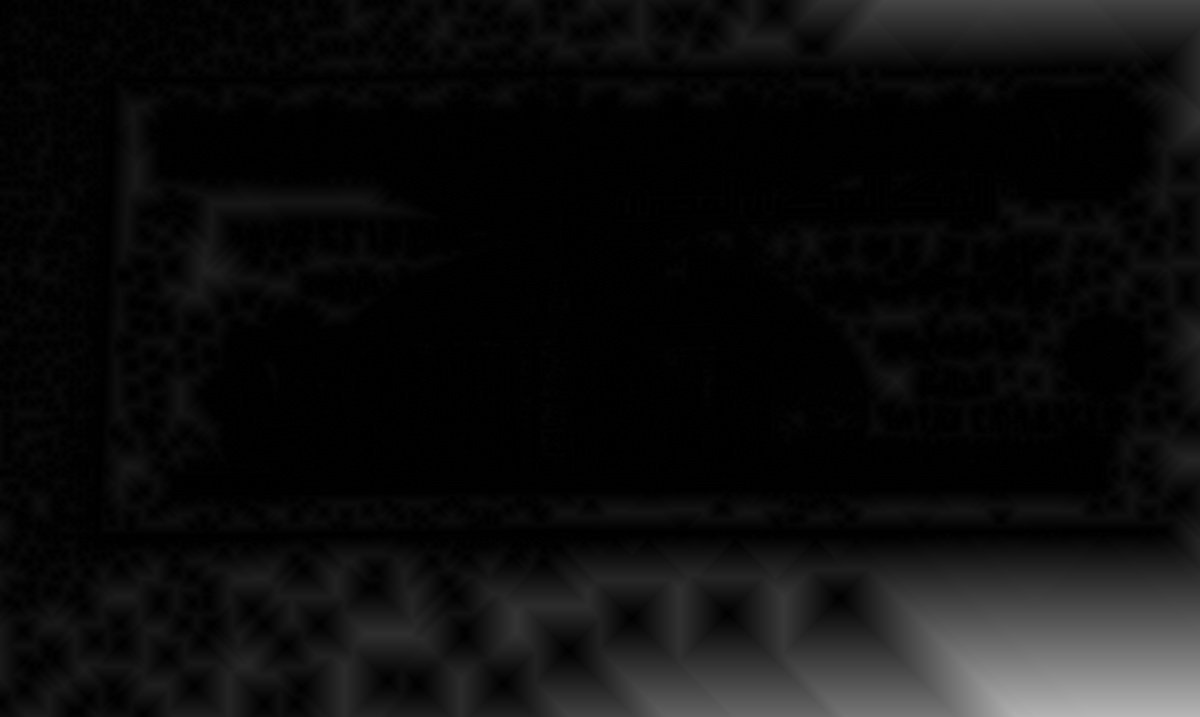
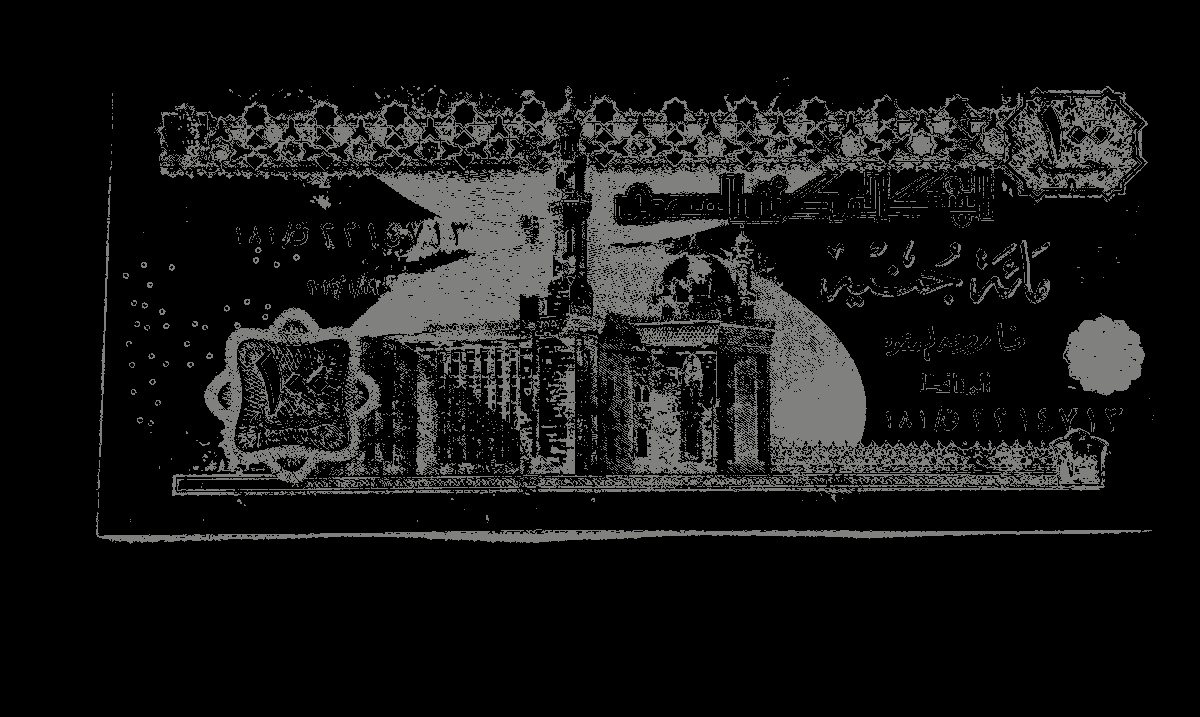
kmeans clustering is effective (but not suitable for banknote segmentation)

diff --git a/src/BanknoteContour.java b/src/BanknoteContour.java
@@ -1,6 +1,8 @@
 import java.io.File;
 import java.util.ArrayList;
+import java.util.HashMap;
 import java.util.List;
+import java.util.Map;
 import java.util.Random;
 
 import org.opencv.core.Core;
@@ -11,180 +13,138 @@ import org.opencv.core.MatOfPoint2f;
 import org.opencv.core.RotatedRect;
 import org.opencv.core.Scalar;
 import org.opencv.core.Size;
+import org.opencv.core.TermCriteria;
 import org.opencv.imgcodecs.Imgcodecs;
 import org.opencv.imgproc.Imgproc;
 import org.opencv.core.Point;
 
 public class BanknoteContour {
 
-    public static void main(String[] args){
+	public static void main(String[] args){
 
-        System.loadLibrary(Core.NATIVE_LIBRARY_NAME);
+		System.loadLibrary(Core.NATIVE_LIBRARY_NAME);
 
-        // Loop over all the test images
-        File folder = new File("images");
-        File[] listOfFiles = folder.listFiles();
-        String fileName = "";
+		File folder = new File("images");
+		File[] listOfFiles = folder.listFiles();
 
-        for (int i = 0; i < listOfFiles.length; i++) {
+		String fileName = "";
 
-            fileName = listOfFiles[i].getName();
+		// Loop over all the test images
+		for (int i = 0; i < listOfFiles.length; i++) {
 
-            System.out.println("Reading image : " + fileName);
+			fileName = listOfFiles[i].getName();
 
-            Mat src = Imgcodecs.imread(folder + "/"+ fileName, Imgcodecs.IMREAD_COLOR);
-            
-            // Create a kernel that we will use to sharpen our image
-            Mat kernel = new Mat(3, 3, CvType.CV_32F);
-            // an approximation of second derivative, a quite strong kernel
-            float[] kernelData = new float[(int) (kernel.total() * kernel.channels())];
-            kernelData[0] = 1; kernelData[1] = 1; kernelData[2] = 1;
-            kernelData[3] = 1; kernelData[4] = -8; kernelData[5] = 1;
-            kernelData[6] = 1; kernelData[7] = 1; kernelData[8] = 1;
-            kernel.put(0, 0, kernelData);
+			System.out.println("Reading image : " + fileName);
 
-            // Do the laplacian filtering and convert to CV_32
-            // in order not to truncate negative numbers
-            Mat imgLaplacian = new Mat();
-            Imgproc.filter2D(src, imgLaplacian, CvType.CV_32F, kernel);
-            Mat sharp = new Mat();
-            src.convertTo(sharp, CvType.CV_32F);
-            Mat imgSharpened = new Mat();
-            Core.subtract(sharp, imgLaplacian, imgSharpened);
+			// Read the image
+			Mat src = Imgcodecs.imread(folder + "/"+ fileName, Imgcodecs.IMREAD_COLOR);
 
-            // convert back to 8bits gray scale
-            imgSharpened.convertTo(imgSharpened, CvType.CV_8UC3);
-            imgLaplacian.convertTo(imgLaplacian, CvType.CV_8UC3);
+			// Reduce noise by filtering
+			Mat srcFiltered = new Mat();
+			Size ksize = new Size(5, 5);
+			double sigmaX = 0;
+			double sigmaY = 0;
+			Imgproc.GaussianBlur(src, srcFiltered, ksize, sigmaX, sigmaY , Core.BORDER_DEFAULT);
 
-            // Create binary image from source image
-            Mat bw = new Mat();
-            Imgproc.cvtColor(imgSharpened, bw, Imgproc.COLOR_BGR2GRAY);
-            Imgproc.threshold(bw, bw, 0, 255, Imgproc.THRESH_BINARY | Imgproc.THRESH_OTSU);
-            
+			// Run the k-means clustering algorithm
+			List<Mat> clusters = cluster(src, 5);
 
-            // Perform the distance transform algorithm
-            Mat dist = new Mat();
-            Imgproc.distanceTransform(bw, dist, Imgproc.DIST_C, 3);
+			// Draw the largest cluster
+			Imgcodecs.imwrite("result/"+fileName, clusters.get(0));
 
-            // Normalize the distance image for range = {0.0, 1.0}
-            // so we can visualize and threshold it
-            Mat dist2 = new Mat();
-            Core.normalize(dist, dist2, 0.0, 1.0, Core.NORM_MINMAX);
-            Mat distDisplayScaled = new Mat();
-            Core.multiply(dist2, new Scalar(255), distDisplayScaled);
-            Mat distDisplay = new Mat();
-            distDisplayScaled.convertTo(distDisplay, CvType.CV_8U);
-            
+		}
 
-            // Threshold to obtain the peaks
-            // This will be the markers for the foreground objects
-            Mat dstThreshold = new Mat();
-            Imgproc.threshold(dist, dstThreshold, 0.4, 1.0, Imgproc.THRESH_BINARY);
+		System.out.println("Finished finding contours ..." );
+		System.exit(0);        
 
-            // Dilate a bit the dist image
-            Mat kernel1 = Mat.ones(3, 3, CvType.CV_8U);
-            Imgproc.dilate(dstThreshold, dstThreshold, kernel1);
-            Mat distDisplay2 = new Mat();
-            dist.convertTo(distDisplay2, CvType.CV_8U);
-            Core.multiply(distDisplay2, new Scalar(255), distDisplay2);
+	}
 
-            // Create the CV_8U version of the distance image
-            // It is needed for findContours()
-            Mat dist_8u = new Mat();
-            dist.convertTo(dist_8u, CvType.CV_8U);
+	/**
+	 * Draw a rotated rectangle over a given drawing matrix.
+	 * @param drawing: The matrix the hold the image
+	 * @param vertices: The four corners of the rectangle
+	 * @param color: The color used to draw the rectangle lines
+	 */
+	private static void drawRotatedRect(Mat drawing, Point[] vertices, Scalar color) {
 
-            // Find total markers
-            List<MatOfPoint> contours = new ArrayList<>();
-            Mat hierarchy = new Mat();
-            Imgproc.findContours(dist_8u, contours, hierarchy, Imgproc.RETR_EXTERNAL, Imgproc.CHAIN_APPROX_SIMPLE);
+		for( int k = 0; k < 4; k++ ) {
+			Imgproc.line( drawing, vertices[k], vertices[(k+1)%4], color, Imgproc.LINE_8, Imgproc.LINE_8 );
+		}
+	}
 
-            // Create the marker image for the watershed algorithm
-            Mat markers = Mat.zeros(dist.size(), CvType.CV_32S);
 
-            
-            // Draw the foreground markers
-            for (int j = 0; j < contours.size(); j++) {
-                Imgproc.drawContours(markers, contours, j, new Scalar(j + 1), -1);
-            }
-            
-            
+	public static List<Mat> cluster(Mat cutout, int k) {
 
-            // Draw the background marker
-            Mat markersScaled = new Mat();
-            markers.convertTo(markersScaled, CvType.CV_32F);
-            Core.normalize(markersScaled, markersScaled, 0.0, 255.0, Core.NORM_MINMAX);
-            Imgproc.circle(markersScaled, new Point(5, 5), 3, new Scalar(255, 255, 255), -1);
-            Mat markersDisplay = new Mat();
-            markersScaled.convertTo(markersDisplay, CvType.CV_8U);
-            
-            Imgproc.circle(markers, new Point(5, 5), 3, new Scalar(255, 255, 255), -1);
+		Mat samples = cutout.reshape(1, cutout.cols() * cutout.rows());
+		Mat samples32f = new Mat();
+		samples.convertTo(samples32f, CvType.CV_32F, 1.0 / 255.0);
 
-            // Perform the watershed algorithm
-            Imgproc.watershed(imgSharpened, markers);
+		Mat labels = new Mat();
+		TermCriteria criteria = new TermCriteria(TermCriteria.COUNT, 100, 1);
+		Mat centers = new Mat();
+		
+		Core.kmeans(samples32f, k, labels, criteria, 1, Core.KMEANS_PP_CENTERS, centers);
 
-            Mat mark = Mat.zeros(markers.size(), CvType.CV_8U);
-            markers.convertTo(mark, CvType.CV_8UC1);
-            Core.bitwise_not(mark, mark);
-            
-            // Generate random colors
-            Random rng = new Random(12345);
-            List<Scalar> colors = new ArrayList<>(contours.size());
-            for (int i1 = 0; i1 < contours.size(); i1++) {
-                int b = rng.nextInt(256);
-                int g = rng.nextInt(256);
-                int r = rng.nextInt(256);
+		return showClusters(cutout, labels, centers);
+	}
 
-                colors.add(new Scalar(b, g, r));
-            }
+	private static List<Mat> showClusters (Mat cutout, Mat labels, Mat centers) {
 
-            // Create the result image
-            Mat dst = Mat.zeros(markers.size(), CvType.CV_8UC3);
-            byte[] dstData = new byte[(int) (dst.total() * dst.channels())];
-            dst.get(0, 0, dstData);
+		centers.convertTo(centers, CvType.CV_8UC1, 255.0);
 
-            // Fill labeled objects with random colors
-            int[] markersData = new int[(int) (markers.total() * markers.channels())];
-            markers.get(0, 0, markersData);
-            
-            /*
-            for (int k = 0; k < markers.rows(); i++) {
-                for (int j = 0; j < markers.cols(); j++) {
-                    int index = markersData[k * markers.cols() + j];
-                    if (index > 0 && index <= contours.size()) {
-                        dstData[(k * dst.cols() + j) * 3 + 0] = (byte) colors.get(index - 1).val[0];
-                        dstData[(k * dst.cols() + j) * 3 + 1] = (byte) colors.get(index - 1).val[1];
-                        dstData[(k * dst.cols() + j) * 3 + 2] = (byte) colors.get(index - 1).val[2];
-                    } else {
-                        dstData[(k * dst.cols() + j) * 3 + 0] = 0;
-                        dstData[(k * dst.cols() + j) * 3 + 1] = 0;
-                        dstData[(k * dst.cols() + j) * 3 + 2] = 0;
-                    }
-                }
-            }
-            */
-            dst.put(0, 0, dstData);
-            
-            
-            Imgcodecs.imwrite("result/"+fileName, dist_8u);
+		centers.reshape(3);
+
+		List<Mat> clusters = new ArrayList<Mat>();
+
+		for(int i = 0; i < centers.rows(); i++) {
+			clusters.add(Mat.zeros(cutout.size(), cutout.type()));
+		}
+
+		Map<Integer, Integer> counts = new HashMap<Integer, Integer>();
+
+		for(int i = 0; i < centers.rows(); i++) counts.put(i, 0);
+
+		int rows = 0;
+
+		for(int y = 0; y < cutout.rows(); y++) {
+
+			for(int x = 0; x < cutout.cols(); x++) {
+
+				int label = (int)labels.get(rows, 0)[0];
+
+				int r = (int)centers.get(label, 2)[0];
+				int g = (int)centers.get(label, 1)[0];
+				int b = (int)centers.get(label, 0)[0];
+
+				clusters.get(label).put(y, x, b, g, r);
+
+				rows++;
+			}
+		}
+
+		return clusters;
+	}
+	
+	private Mat segmentByColor(Mat imgRgb) {
         
-        }
-        
+		Mat srcHsv = new Mat();
+        Imgproc.cvtColor(imgRgb, srcHsv, Imgproc.COLOR_BGR2HSV);
 
-        System.out.println("Finished finding contours ..." );
-        System.exit(0);        
-
-    }
-    
-    /**
-     * Draw a rotated rectangle over a given drawing matrix.
-     * @param drawing: The matrix the hold the image
-     * @param vertices: The four corners of the rectangle
-     * @param color: The color used to draw the rectangle lines
-     */
-    private static void drawRotatedRect(Mat drawing, Point[] vertices, Scalar color) {
+        // Range for lower color
+        Mat lowerColor = new Mat();
+        Scalar lower = new Scalar(0, 10, 150);
+        Scalar upper = new Scalar(40, 255, 200);
+        Core.inRange(srcHsv, lower, upper, lowerColor);
         
-        for( int k = 0; k < 4; k++ ) {
-            Imgproc.line( drawing, vertices[k], vertices[(k+1)%4], color, Imgproc.LINE_8, Imgproc.LINE_8 );
-        }
-    }
+        // Range for upper color
+        Mat upperColor = new Mat();
+        lower = new Scalar(160, 10, 10);
+        upper = new Scalar(180, 255, 255);
+        Core.inRange(srcHsv, lower, upper, upperColor);
+        
+        Mat mainColor = new Mat();
+        Core.add(lowerColor, upperColor, mainColor);
+        
+        return mainColor;
+	}
 }
